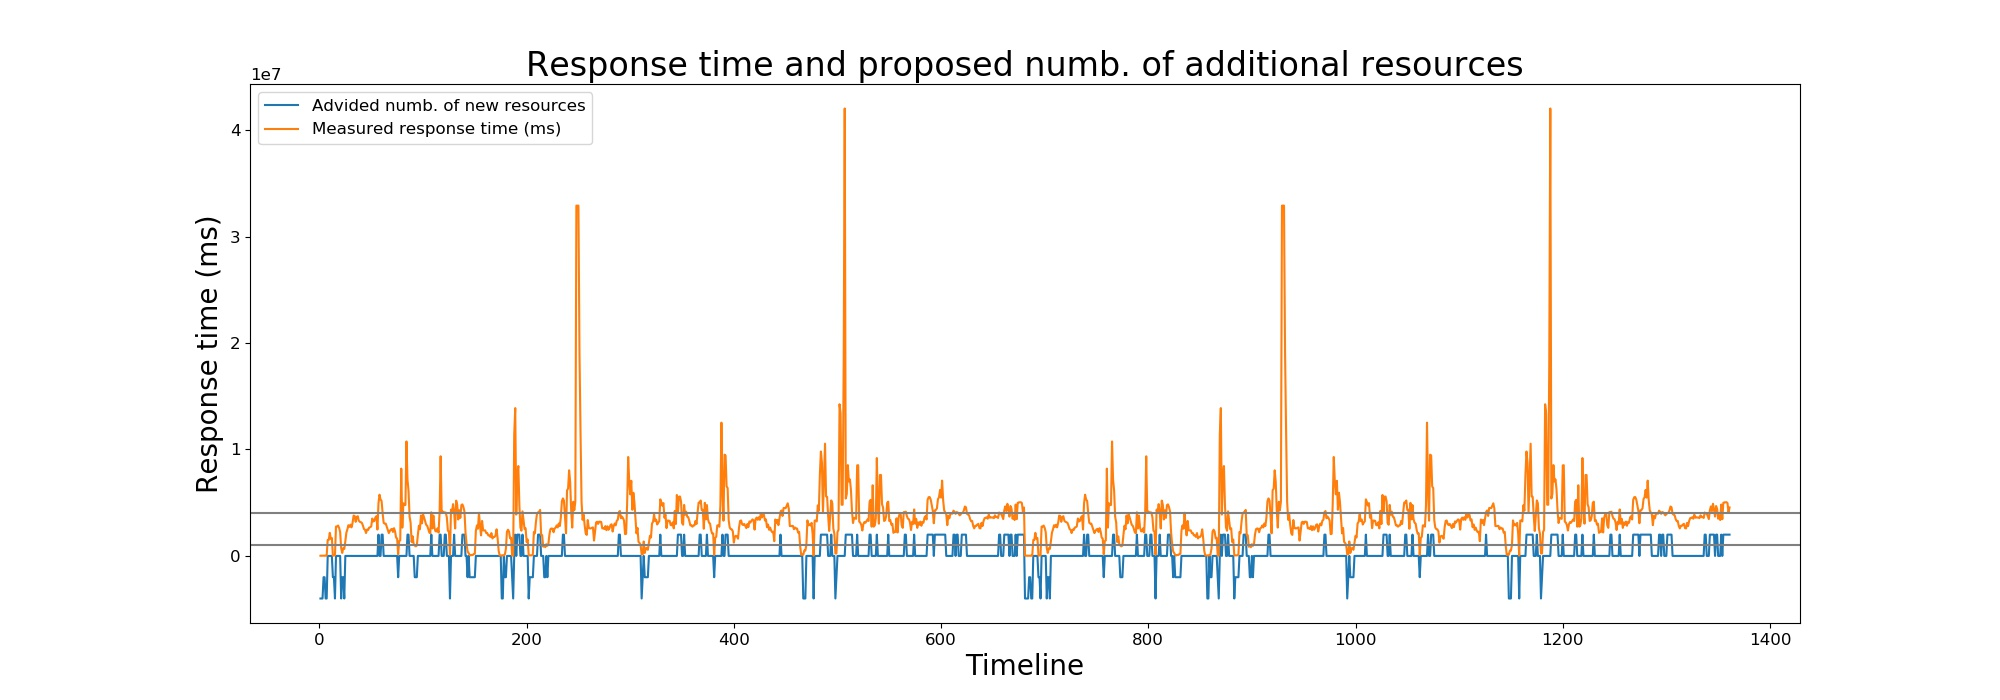
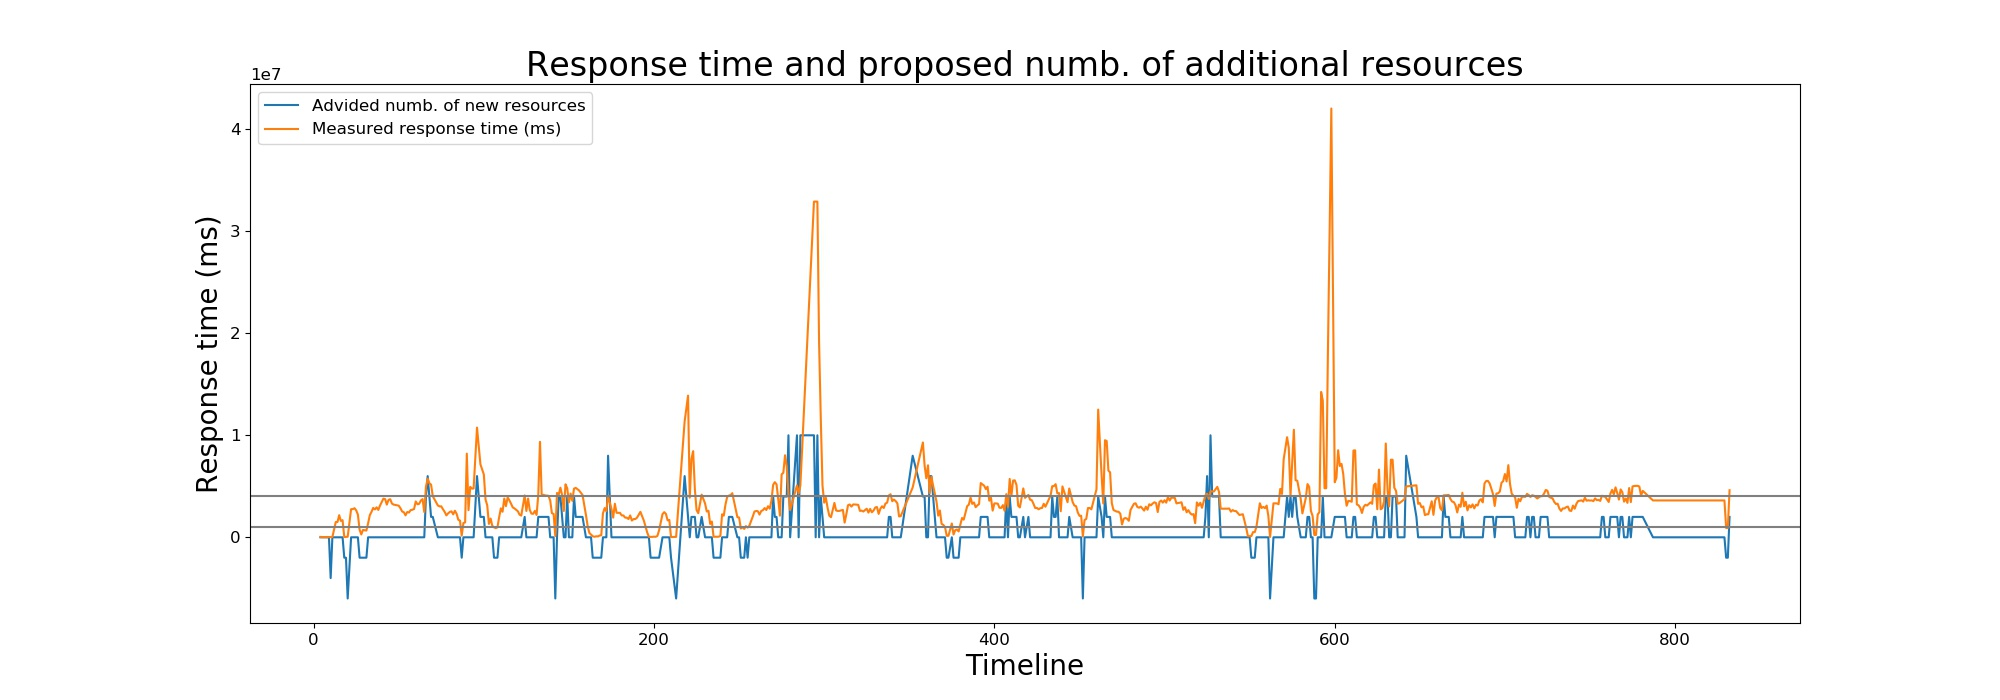
refactored visualizer and advisor

diff --git a/opt_advisor.py b/opt_advisor.py
@@ -331,46 +331,29 @@ def run(csfFileName, last = False):
     # In[171]:
 
     if showPlots :
-        VisualizePredictedYWithWorkers(0, investigationDFDown[['predictedResponseTimeAdded0Worker',
-                                                               'predictedResponseTimeAdded-1Worker',
-                                                               'predictedResponseTimeAdded-2Worker',
-                                                               'predictedResponseTimeAdded-3Worker']], targetVariable)
+        visualisedData = investigationDFDown.columns[2:]
+        VisualizePredictedYWithWorkers(0, investigationDFDown[visualisedData], targetVariable)
 
 
     # In[172]:
 
     if showPlots :
-        VisualizePredictedYWithWorkers(0, investigationDFUp[['predictedResponseTimeAdded1Worker',
-                                                             'predictedResponseTimeAdded2Worker',
-                                                             'predictedResponseTimeAdded3Worker']], targetVariable)
-
-
-    # In[173]:
-
-    if showPlots :
-        VisualizePredictedYWithWorkers(0, investigationDFUp[['predictedResponseTimeAdded0Worker',
-                                                             'predictedResponseTimeAdded1Worker',
-                                                             'predictedResponseTimeAdded2Worker',
-                                                             'predictedResponseTimeAdded3Worker',
-                                                             'predictedResponseTimeAdded4Worker',
-                                                             'predictedResponseTimeAdded5Worker']], targetVariable)
+        visualisedColumns = investigationDFUp.columns[2:]
+        VisualizePredictedYWithWorkers(0, investigationDFUp[visualisedColumns], targetVariable)
 
 
     # In[174]:
 
     if showPlots :
-        VisualizePredictedYWithWorkers(0, investigationDFDeNormalizedUp[['denormalizedPredictedResponseTimeAdded0Worker',
-                                                                         'denormalizedPredictedResponseTimeAdded1Worker',
-                                                                         'denormalizedPredictedResponseTimeAdded2Worker',
-                                                                         'denormalizedPredictedResponseTimeAdded3Worker',
-                                                                         'denormalizedPredictedResponseTimeAdded4Worker',
-                                                                         'denormalizedPredictedResponseTimeAdded5Worker']], targetVariable)
+        visualisedColumns = investigationDFDeNormalizedUp.columns[2:]
+        VisualizePredictedYWithWorkers(0, investigationDFDeNormalizedUp[visualisedColumns], targetVariable)
 
 
     # In[175]:
 
     if showPlots :
-        VisualizePredictedYLine(investigationDFDeNormalizedUp['avg latency (quantile 0.5)'],                         investigationDFDeNormalizedUp[['denormalizedPredictedResponseTimeAdded0Worker','denormalizedPredictedResponseTimeAdded1Worker','denormalizedPredictedResponseTimeAdded2Worker','denormalizedPredictedResponseTimeAdded3Worker','denormalizedPredictedResponseTimeAdded4Worker','denormalizedPredictedResponseTimeAdded5Worker']], targetVariable)
+        visualisedColumns = investigationDFDeNormalizedUp.columns[2:]
+        VisualizePredictedYLine(investigationDFDeNormalizedUp['avg latency (quantile 0.5)'],                         investigationDFDeNormalizedUp[visualisedColumns], targetVariable)
 
 
     # In[176]:

diff --git a/opt_rest.py b/opt_rest.py
@@ -246,9 +246,6 @@ def get_advice():
     logger.info(f'pandas dataframe df.columns = {df.columns}')
     logger.info('----------------------------------------------')
 
-    # print(df.values)
-    # print(df.head())
-
     # TODO:
     # Ha egy megadott számnál hosszabb a dataframe akkor adjon tanácsot különben ne
     logger.info(f'df.shape = {df.shape}')
@@ -259,7 +256,7 @@ def get_advice():
         logger.info('There is enough data for get advice')
         logger.info('---------Get Advice Phase----------')
                     
-        opt_advisor_return = opt_advisor.run(config.nn_filename, last = True)
+        opt_advisor_return = opt_advisor.run(config.nn_filename, last = False)
         
         logger.info('---------------------------------------- opt_advisor_return ----------------------------------------')
         logger.info(opt_advisor_return)
